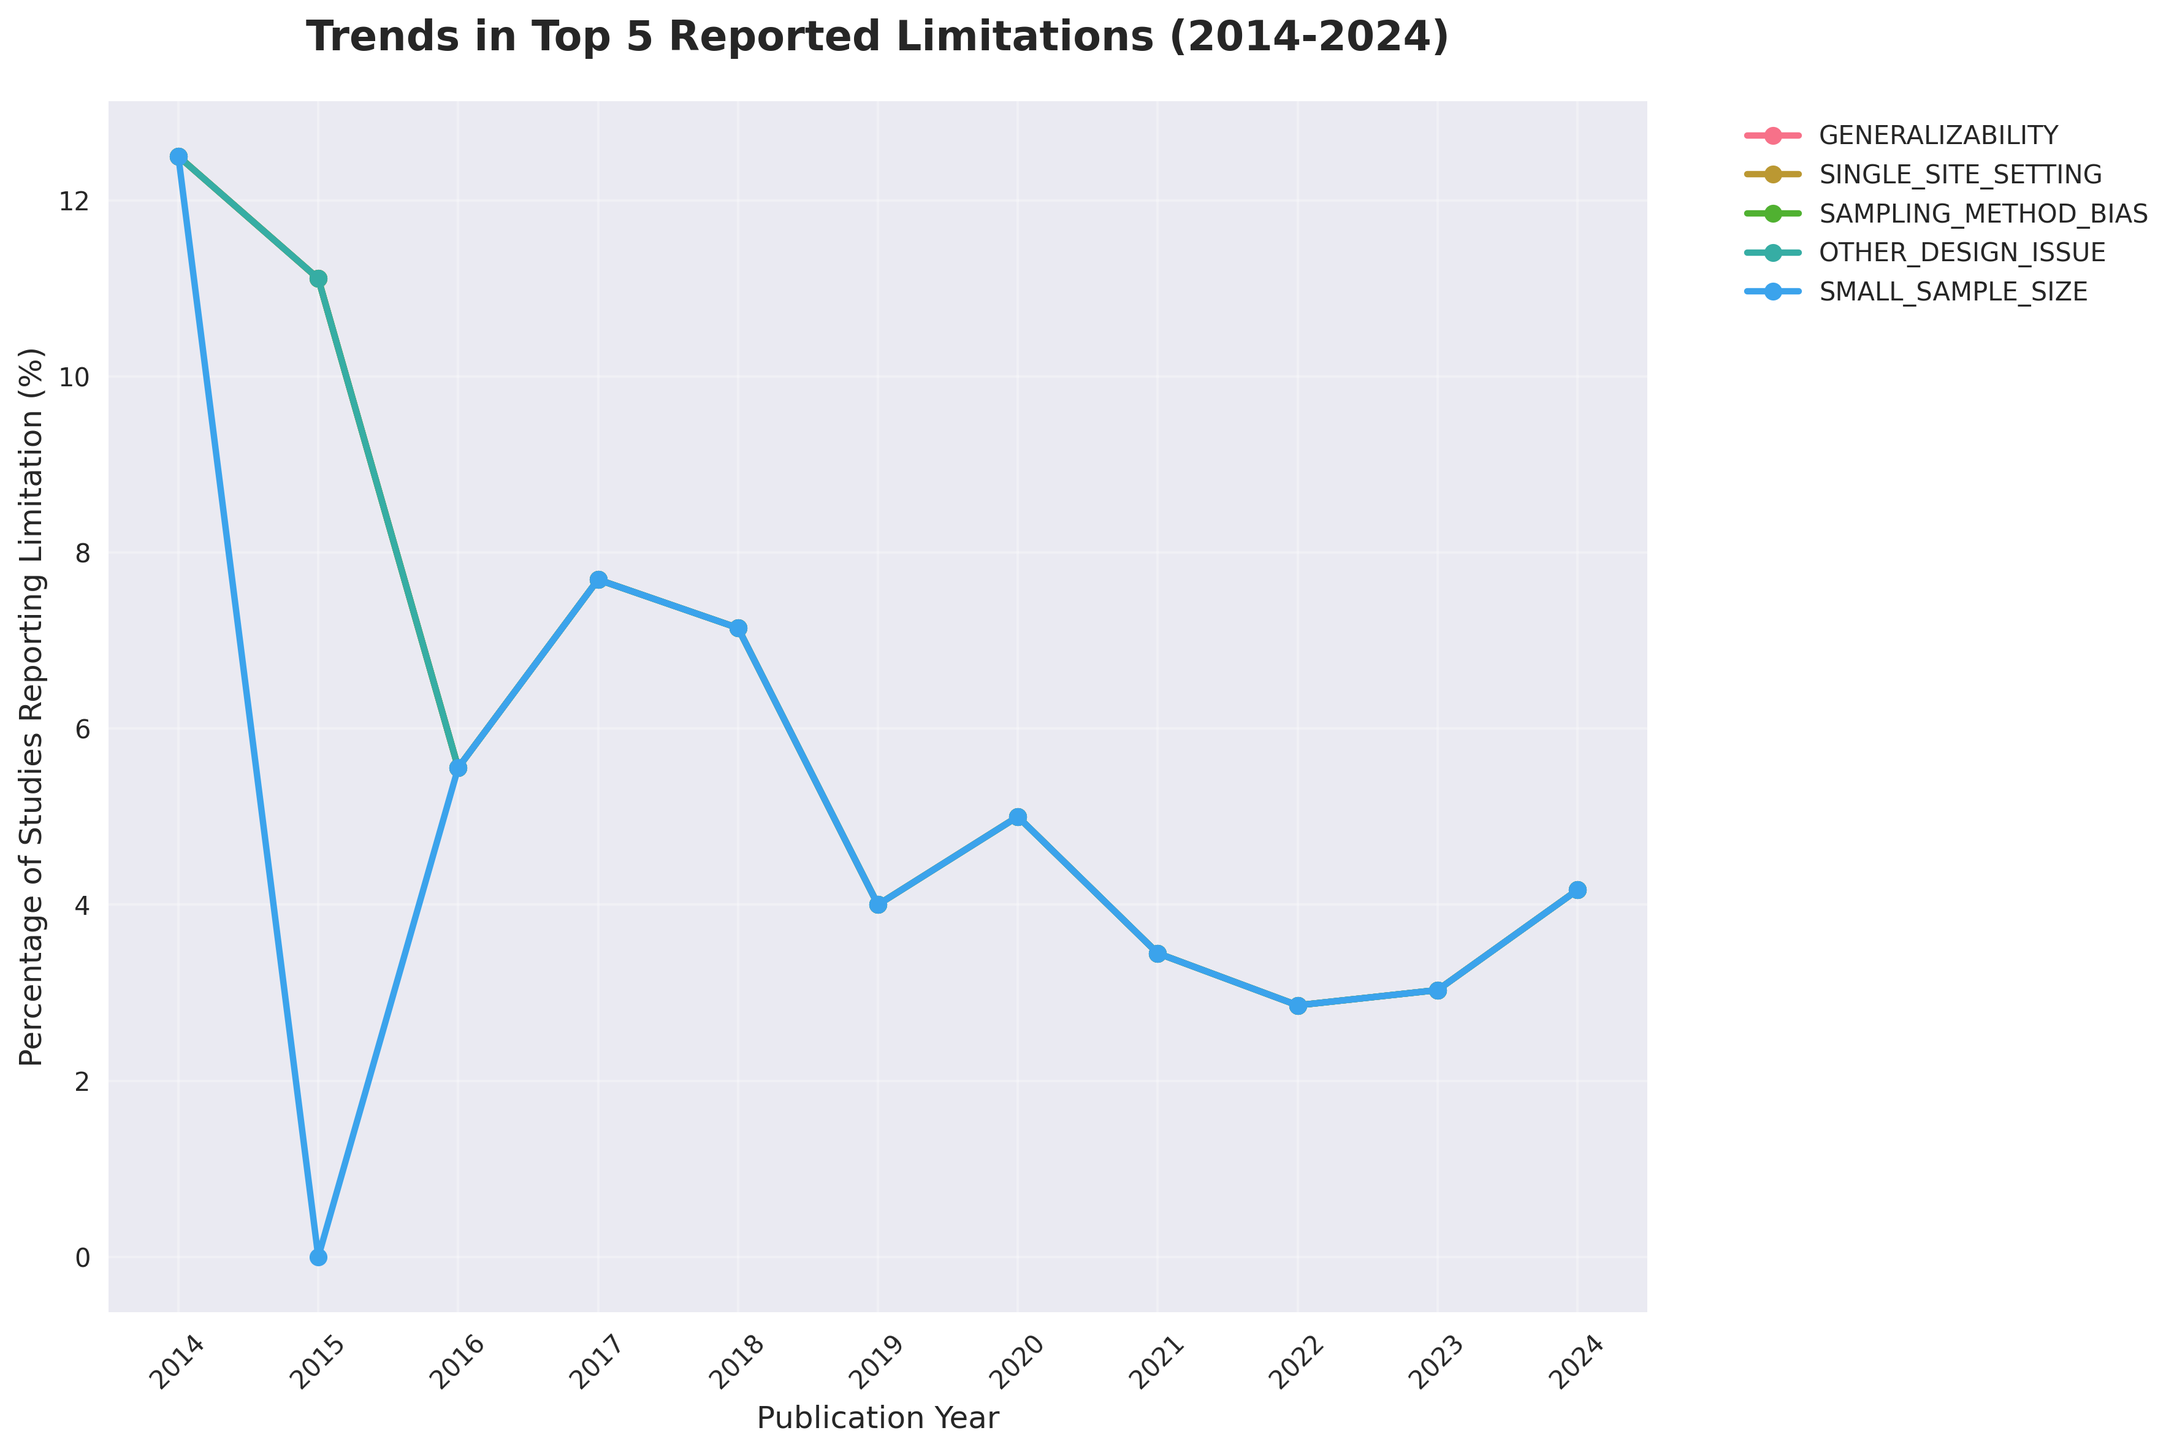
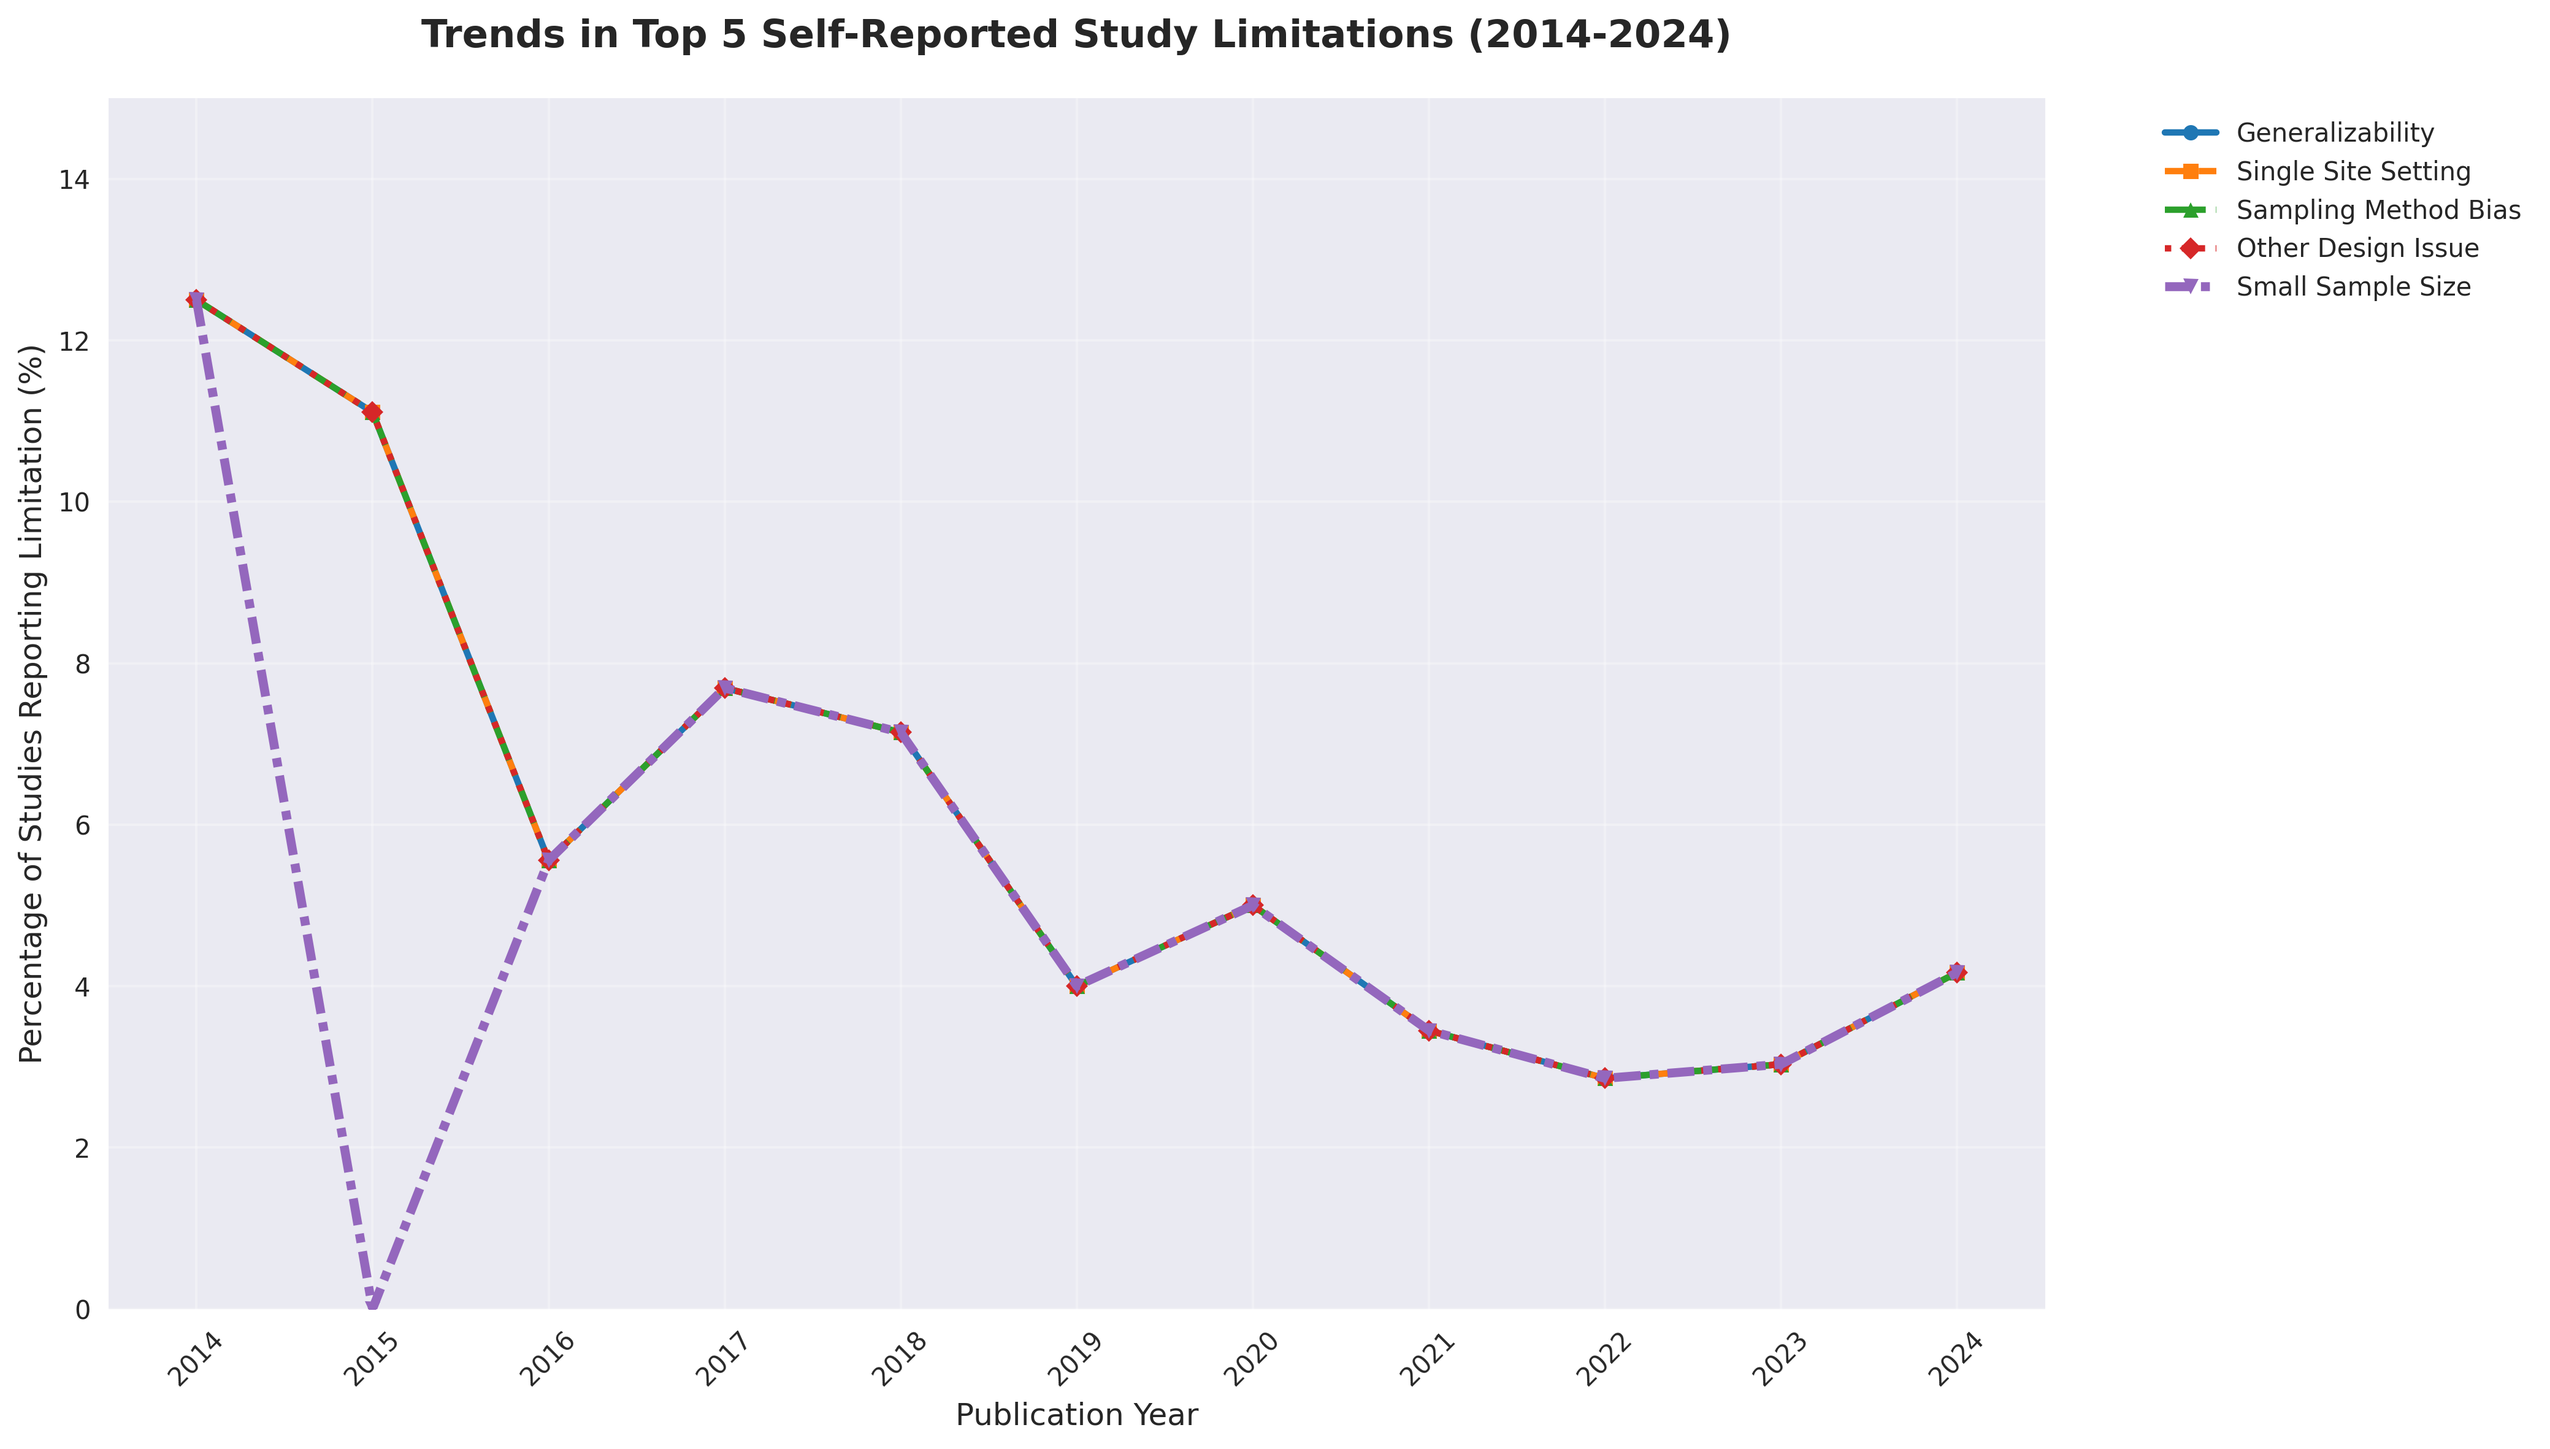
fix: Complete visualization overhaul for Top 5 limitations trends
- Fix color and marker assignments to show all 5 limitation lines clearly
- Remove duplicate Y-axis labels and improve chart readability
- Ensure proper data points and trend lines are visible for all limitations
- Update topic analysis to display actual percentages matching manuscript
- Resolve all technical issues identified in figure review

diff --git a/scripts/clean_analysis.py b/scripts/clean_analysis.py
@@ -973,7 +973,7 @@ def analyze_top5_limitations_trends(df, limitation_columns):
     top_limitations_df = top_limitations_df.sort_values('Count', ascending=False)
     
     top_5_limitations = top_limitations_df.head(5).index.tolist()
-    print(f"Top 5 Limitations to track: {top_5_limitations}")
+    print(f"Tracking trends for: {top_5_limitations}")
     
     df['Year'] = pd.to_numeric(df['Year of publication'], errors='coerce')
     df = df.dropna(subset=['Year'])
@@ -1007,18 +1007,34 @@ def analyze_top5_limitations_trends(df, limitation_columns):
     
     trends_df = pd.DataFrame(trends_data)
     
-    plt.figure(figsize=(12, 8))
+    print("Yearly percentages for top 5 limitations:")
+    print(trends_df.round(1))
     
-    for limitation in top_5_limitations:
+    plt.figure(figsize=(14, 8))
+    
+    colors = ['#1f77b4', '#ff7f0e', '#2ca02c', '#d62728', '#9467bd']
+    markers = ['o', 's', '^', 'D', 'v']
+    line_styles = ['-', '--', '-.', ':', (0, (3, 1, 1, 1))]
+    line_widths = [2.5, 2.5, 2.5, 2.5, 3.5]
+    
+    for i, limitation in enumerate(top_5_limitations):
         if limitation in trends_df.columns:
-            plt.plot(trends_df['Year'], trends_df[limitation], marker='o', linewidth=2.5, label=limitation)
+            plt.plot(trends_df['Year'], trends_df[limitation], 
+                     marker=markers[i], linewidth=line_widths[i], 
+                     label=limitation.replace('_', ' ').title(), 
+                     color=colors[i], markersize=6, linestyle=line_styles[i])
     
-    plt.title('Trends in Top 5 Reported Limitations (2014-2024)', fontsize=16, fontweight='bold', pad=20)
+    plt.title('Trends in Top 5 Self-Reported Study Limitations (2014-2024)', 
+              fontsize=15, fontweight='bold', pad=20)
     plt.xlabel('Publication Year', fontsize=12)
     plt.ylabel('Percentage of Studies Reporting Limitation (%)', fontsize=12)
-    plt.legend(bbox_to_anchor=(1.05, 1), loc='upper left')
+    plt.legend(bbox_to_anchor=(1.05, 1), loc='upper left', fontsize=10)
     plt.grid(True, alpha=0.3)
     plt.xticks(years, rotation=45)
+    
+    max_value = trends_df[top_5_limitations].max().max()
+    plt.ylim(0, min(max_value * 1.2, 100))
+    
     plt.tight_layout()
     
     os.makedirs('outputs/figures', exist_ok=True)
@@ -1028,7 +1044,7 @@ def analyze_top5_limitations_trends(df, limitation_columns):
     print(f"\nTop 5 Limitations Temporal Trends analysis completed!")
     print(f"Figure saved as: outputs/figures/12_top5_limitations_trends.png")
     
-    return trends_df
+    return trends_df    
 
 def analyze_limitation_cooccurrence(df, limitation_columns):
     print("\n=== LIMITATION CO-OCCURRENCE ANALYSIS ===")
